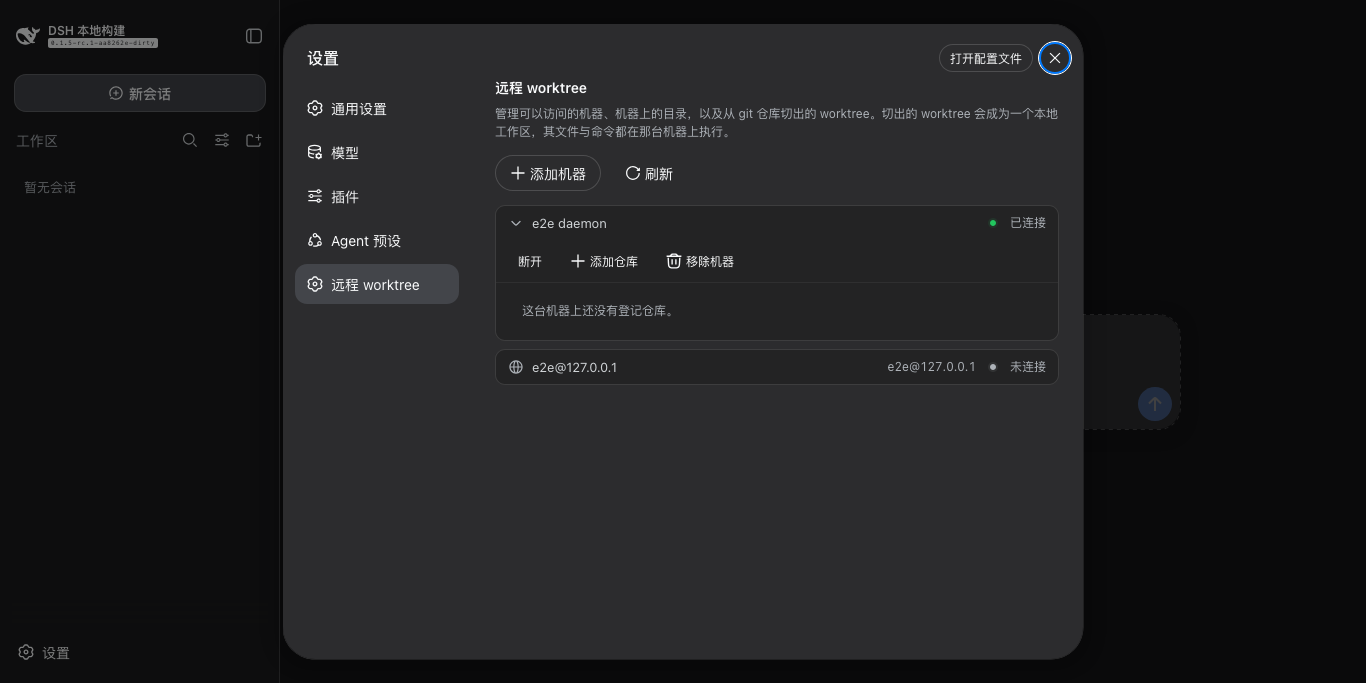
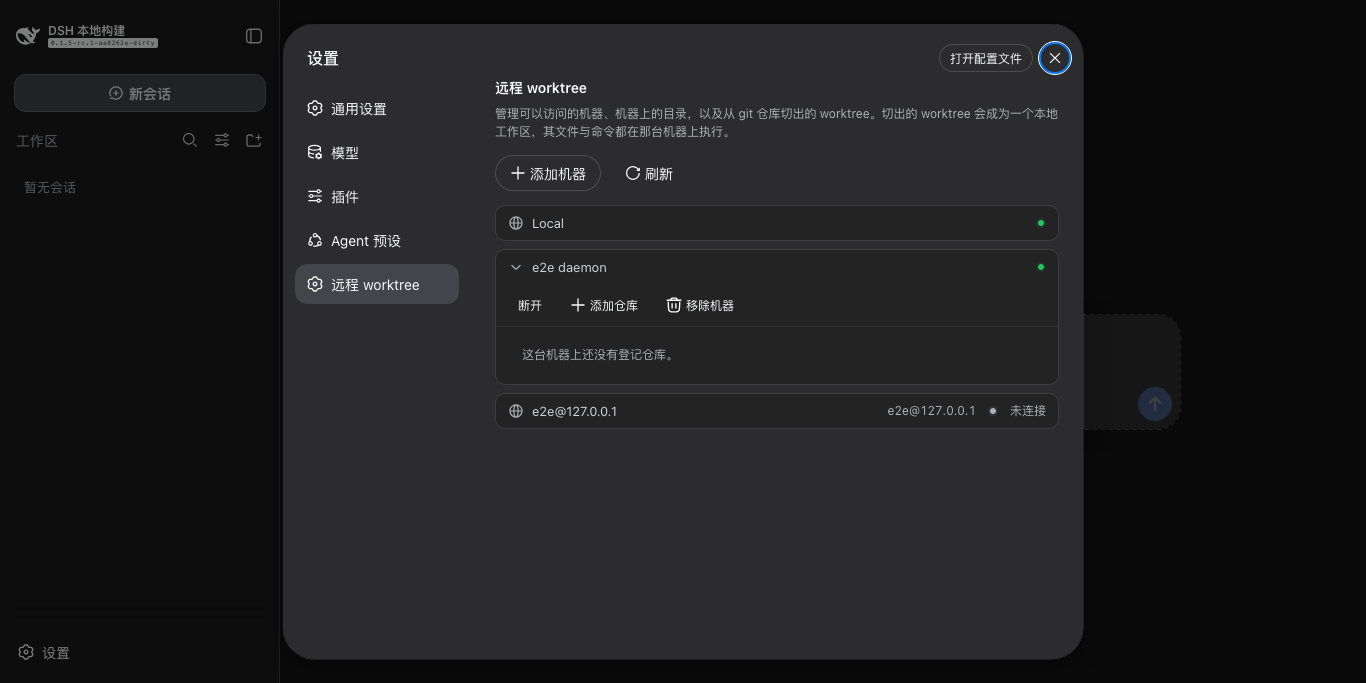
Let the dot speak for a settled machine
A machine that is connected, and this host, which is always available, said so
in words beside a dot that says the same thing. The words are gone from the row;
the dot stays.

They are not gone from the markup. The dot is `aria-hidden`, so without them the
connection state would have no accessible name at all: the row keeps the state
as a clipped span, which a person does not see and a screen reader reads. The
states a dot cannot tell apart still speak — connecting, idle, disconnected, and
failed each keep their words, because a red or grey dot names no reason by
itself — and so does the progress text of a connection in flight.

The published screenshots are regenerated: their rows carried the old words.

diff --git a/src/plugin/client/Section.tsx b/src/plugin/client/Section.tsx
@@ -447,6 +447,11 @@ export function RemoteWorktreesSection(props: SectionProps) {
             // This host has no destination, no tunnel, no token, and no
             // connection to make or break: it is where the harness already is.
             const here = node.transport.kind === 'local'
+            // What the row says in words, when it says anything: the step in
+            // flight, or the state of a machine that is not simply connected.
+            const note = step === undefined
+              ? badge.dot === 'done' ? undefined : t(badge.key)
+              : t(step.key, step.params)
             return (
               <div key={node.nodeId} className={css.card}>
                 <DisclosureRow
@@ -469,13 +474,16 @@ export function RemoteWorktreesSection(props: SectionProps) {
                         : <Tag tone="neutral">{t('forwarding', { port: status.localPort })}</Tag>}
                       {here || node.hasToken ? null : <Tag tone="warning">{t('noToken')}</Tag>}
                       <StateDot state={badge.dot} />
-                      <span className={css.meta}>
-                        {/* A machine reports its connection; this host reports
-                            that there is nothing to connect to. */}
-                        {here
-                          ? t('status.local')
-                          : step === undefined ? t(badge.key) : t(step.key, step.params)}
-                      </span>
+                      {/* A settled machine says what its dot already says, so
+                          it says nothing: this host is always available and a
+                          connected machine is connected. The words stay for
+                          assistive technology, which cannot read a colour, and
+                          they are shown while a step is in flight or a state is
+                          one a dot cannot tell apart — a red dot names no
+                          reason by itself. */}
+                      {note === undefined
+                        ? <span className={css.srOnly}>{t(here ? 'status.local' : badge.key)}</span>
+                        : <span className={css.meta}>{note}</span>}
                     </span>
                   )}
                 >

diff --git a/src/plugin/client/Section.module.css b/src/plugin/client/Section.module.css
@@ -45,6 +45,20 @@
   line-height: 1.55;
 }
 .tree { display: flex; flex-direction: column; gap: 8px; }
+/* State a person reads from a dot, kept as words for assistive technology: the
+   dot is aria-hidden, so without this the connection state would have no
+   accessible name at all. */
+.srOnly {
+  position: absolute;
+  width: 1px;
+  height: 1px;
+  margin: -1px;
+  padding: 0;
+  overflow: hidden;
+  white-space: nowrap;
+  border: 0;
+  clip-path: inset(50%);
+}
 .card {
   border: 0.5px solid var(--dsw-alias-border-l2);
   border-radius: 10px;
